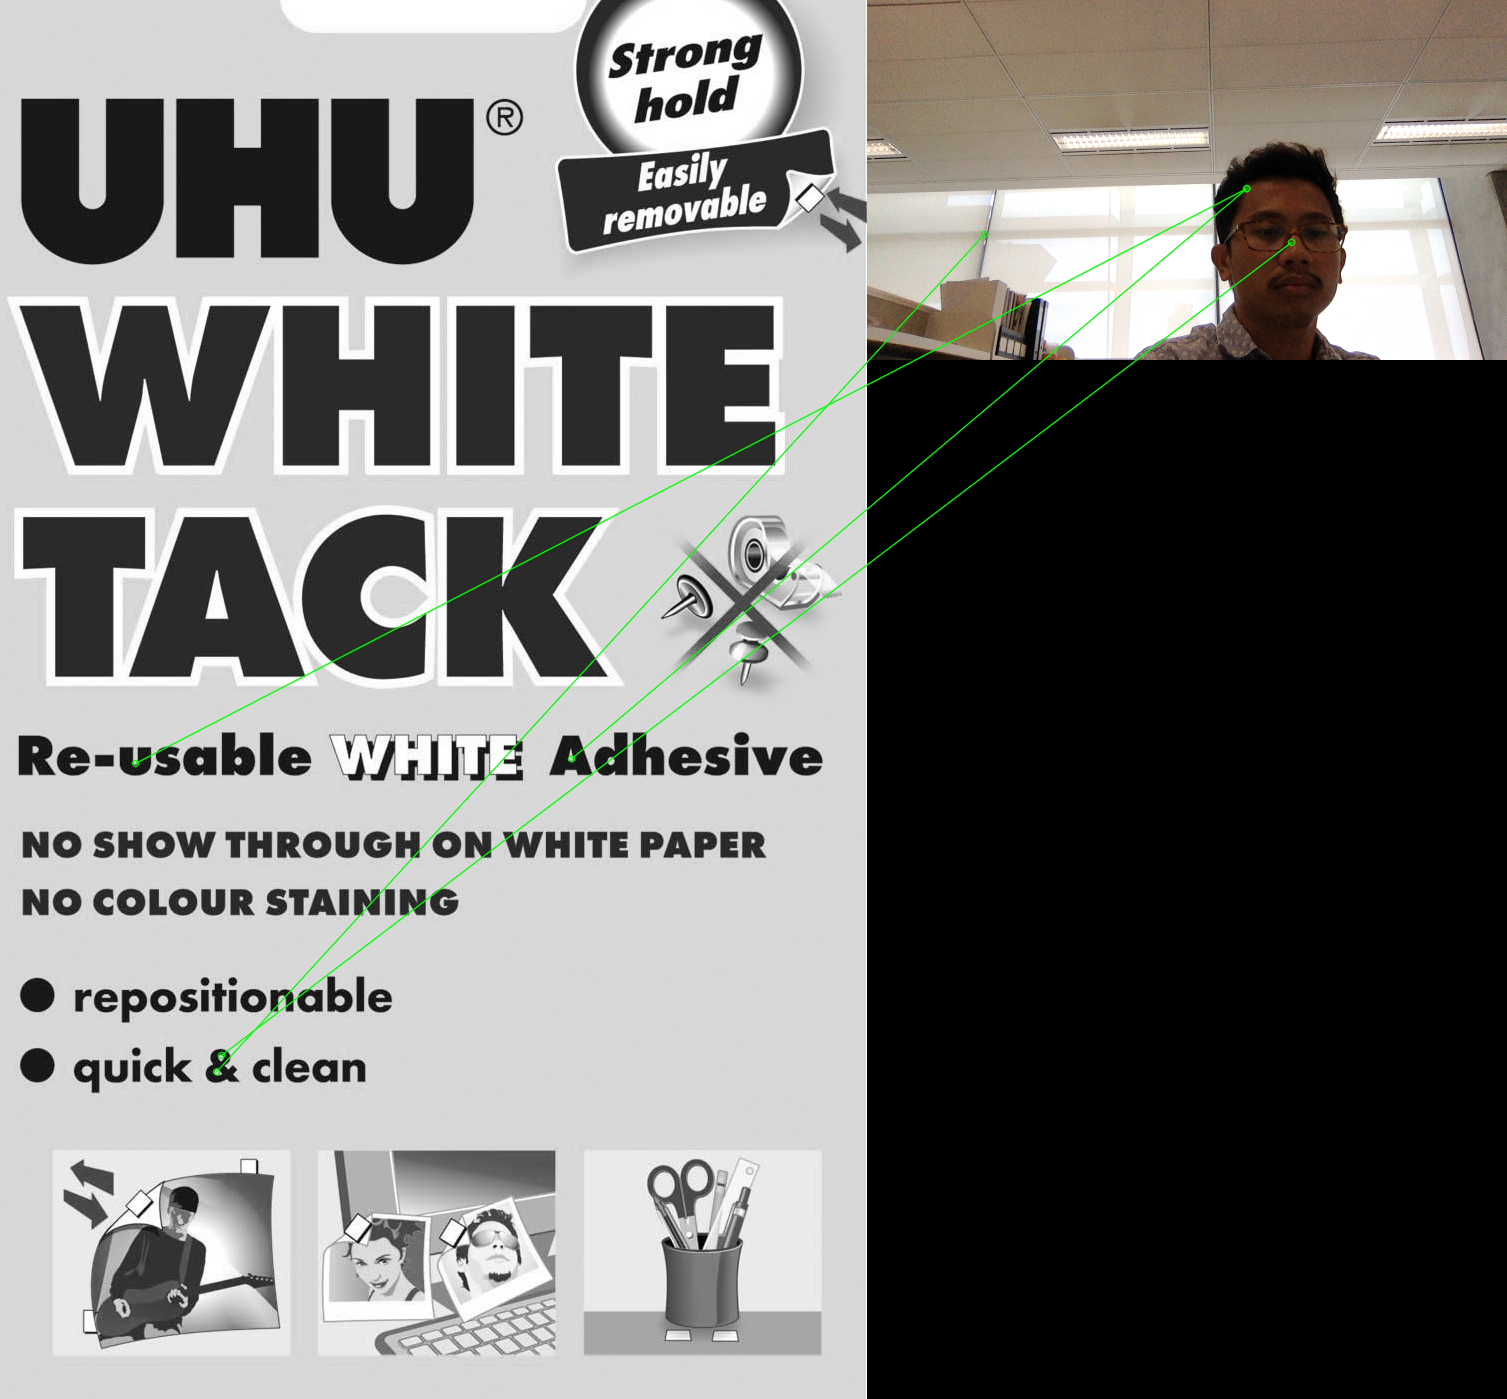
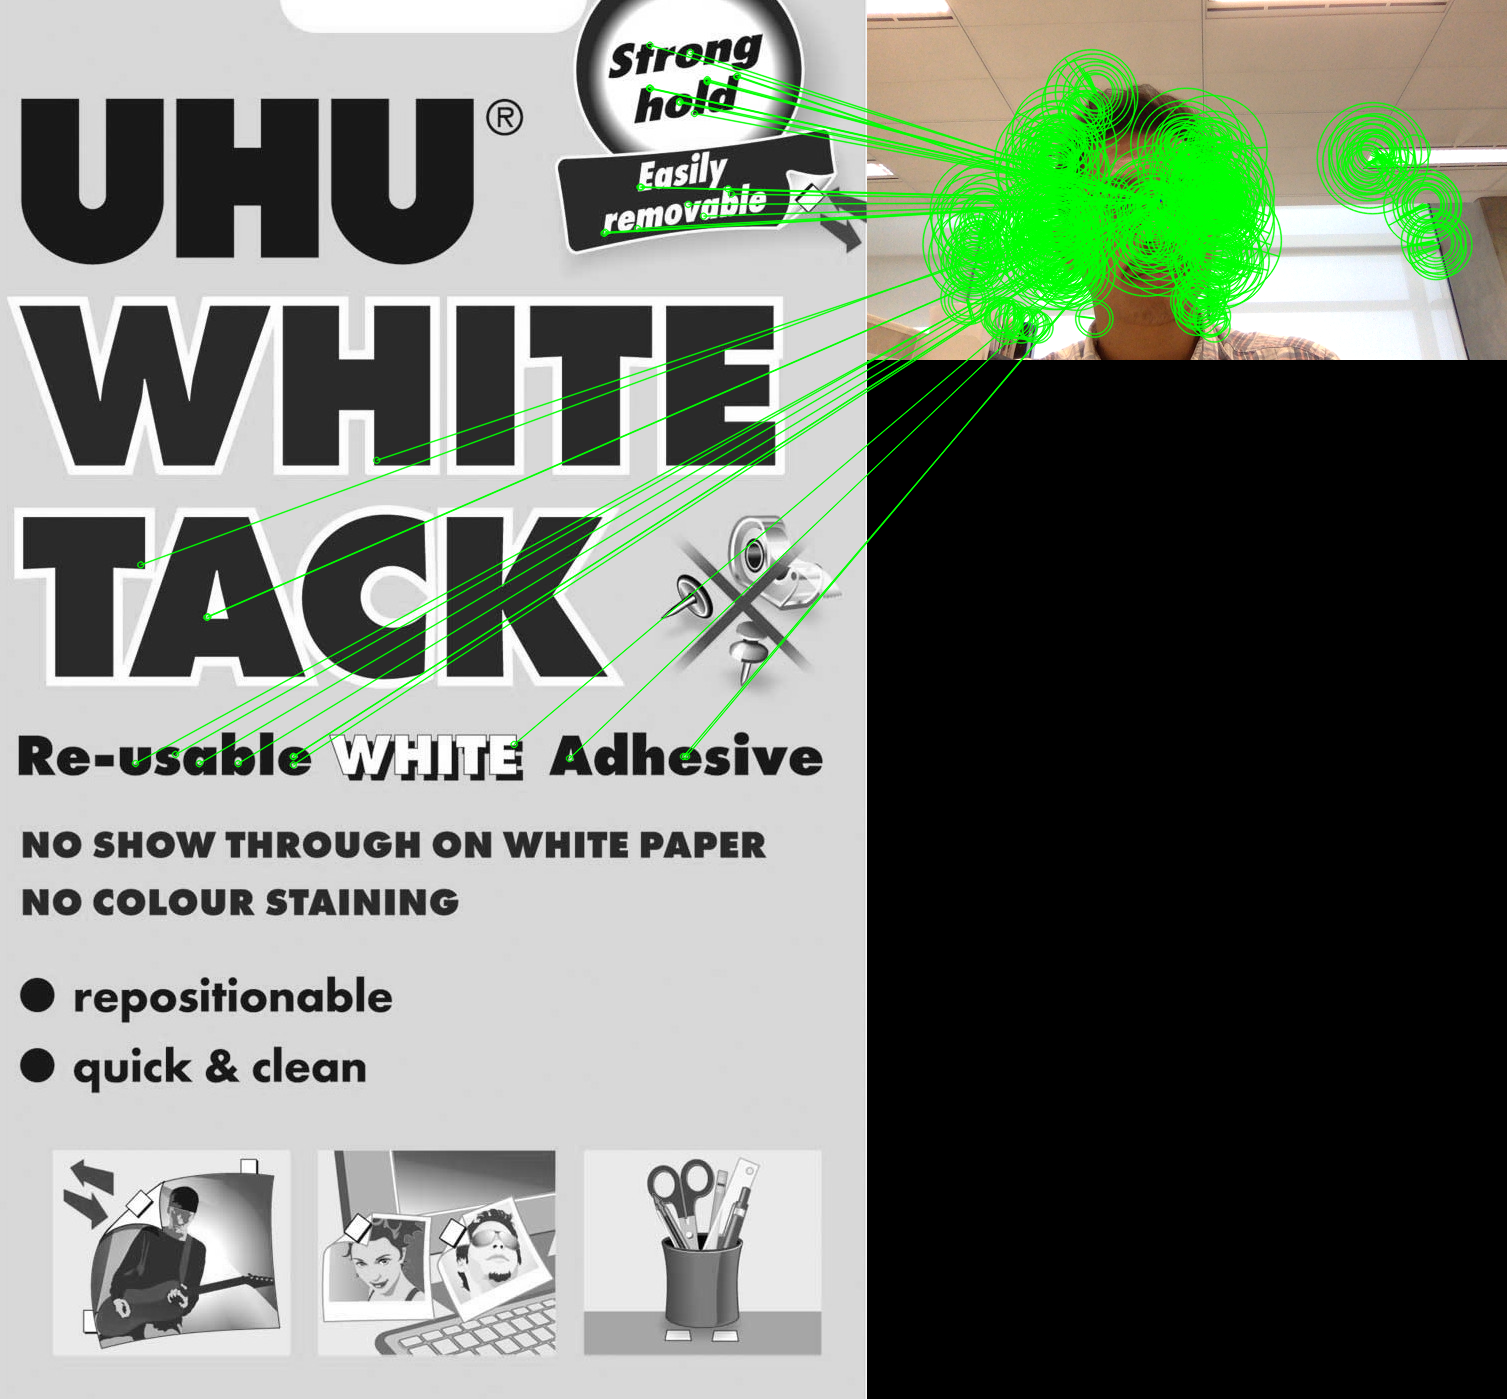
Playing with a composite feature extractor: ORB for feature detection, while SIFT for feature description.

diff --git a/ORB/objectDetector.py b/ORB/objectDetector.py
@@ -32,7 +32,11 @@ if __name__ == '__main__':
 			print("Using SIFT algorithm")
 		elif 'orb' in sys.argv:
 			detector = cv2.ORB_create()
-			print("Using ORB algorithm")
+			print("Using ORB for detection.")
+			descriptor = cv2.xfeatures2d.SIFT_create()
+			FLANN_INDEX_KDTREE = 0
+			index_params = dict(algorithm = FLANN_INDEX_KDTREE, tree = 5)
+			print("Using SIFT for decription.")
 		else:
 			detector = cv2.BRISK_create()
 			FLANN_INDEX_LSH = 6
@@ -45,7 +49,8 @@ if __name__ == '__main__':
 			matcher = cv2.FlannBasedMatcher(index_params, search_params)
 			print("Using flann-based matcher")
 		else:
-			matcher = cv2.BFMatcher()
+			matcher = cv2.BFMatcher() #for regular descriptors
+			#matcher = cv2.BFMatcher(cv2.NORM_HAMMING, crossCheck=True) # for ORB keypoints
 			print("Using brute force matcher")
 		
 		# from arguments, check matching algorithm
@@ -74,6 +79,8 @@ if __name__ == '__main__':
 	
 	# find the keypoints and descriptors from the training image with SIFT
 	kp1, des1 = detector.detectAndCompute(img1,None)
+	#kp1 = detector.detect(img1,None)
+	#__, des1 = descriptor.compute(img1, kp1)
 
 	#print("Frame, t_detect, t_match, t_sort , t_transform, Training Descriptors, Query Descriptors, Matches, Min Distance, Max Distance")
 
@@ -90,6 +97,8 @@ if __name__ == '__main__':
 
 		# find features on the frame with SIFT/ORB
 		kp2, des2 = detector.detectAndCompute(frame,None)
+		#kp2 = detector.detect(frame,None)
+		#__, des2 = descriptor.compute(frame, kp2)
 		t_detect = time.process_time()
 
 		if 'match' in sys.argv:
@@ -104,10 +113,10 @@ if __name__ == '__main__':
 			good = []
 			distances = []
 			
-			for m,n in matches:
-				distances.append(m.distance)
-				if m.distance < 0.75*n.distance:
-					good.append(m)
+			#for m,n in matches:
+			#	distances.append(m.distance)
+			#	if m.distance < 0.75*n.distance:
+			#		good.append(m)
 
 		good = sorted(good, key = lambda x:x.distance)
 		t_sort = time.process_time()
@@ -134,6 +143,7 @@ if __name__ == '__main__':
 			cv2.drawContours(frame,[np.int32(dst)],-1,(255,0,0),3)
 			cv2.drawContours(mask2,[np.int32(dst)],-1,(255,0,0),3)
 			cv2.floodFill(mask2,flood_mask,(0,0),(255,255,255))
+			cv2.drawKeypoints(frame,kp2,frame,color=(0,255,0), flags=4)
 			res = frame | mask2
 		else:
 			res = mask2
